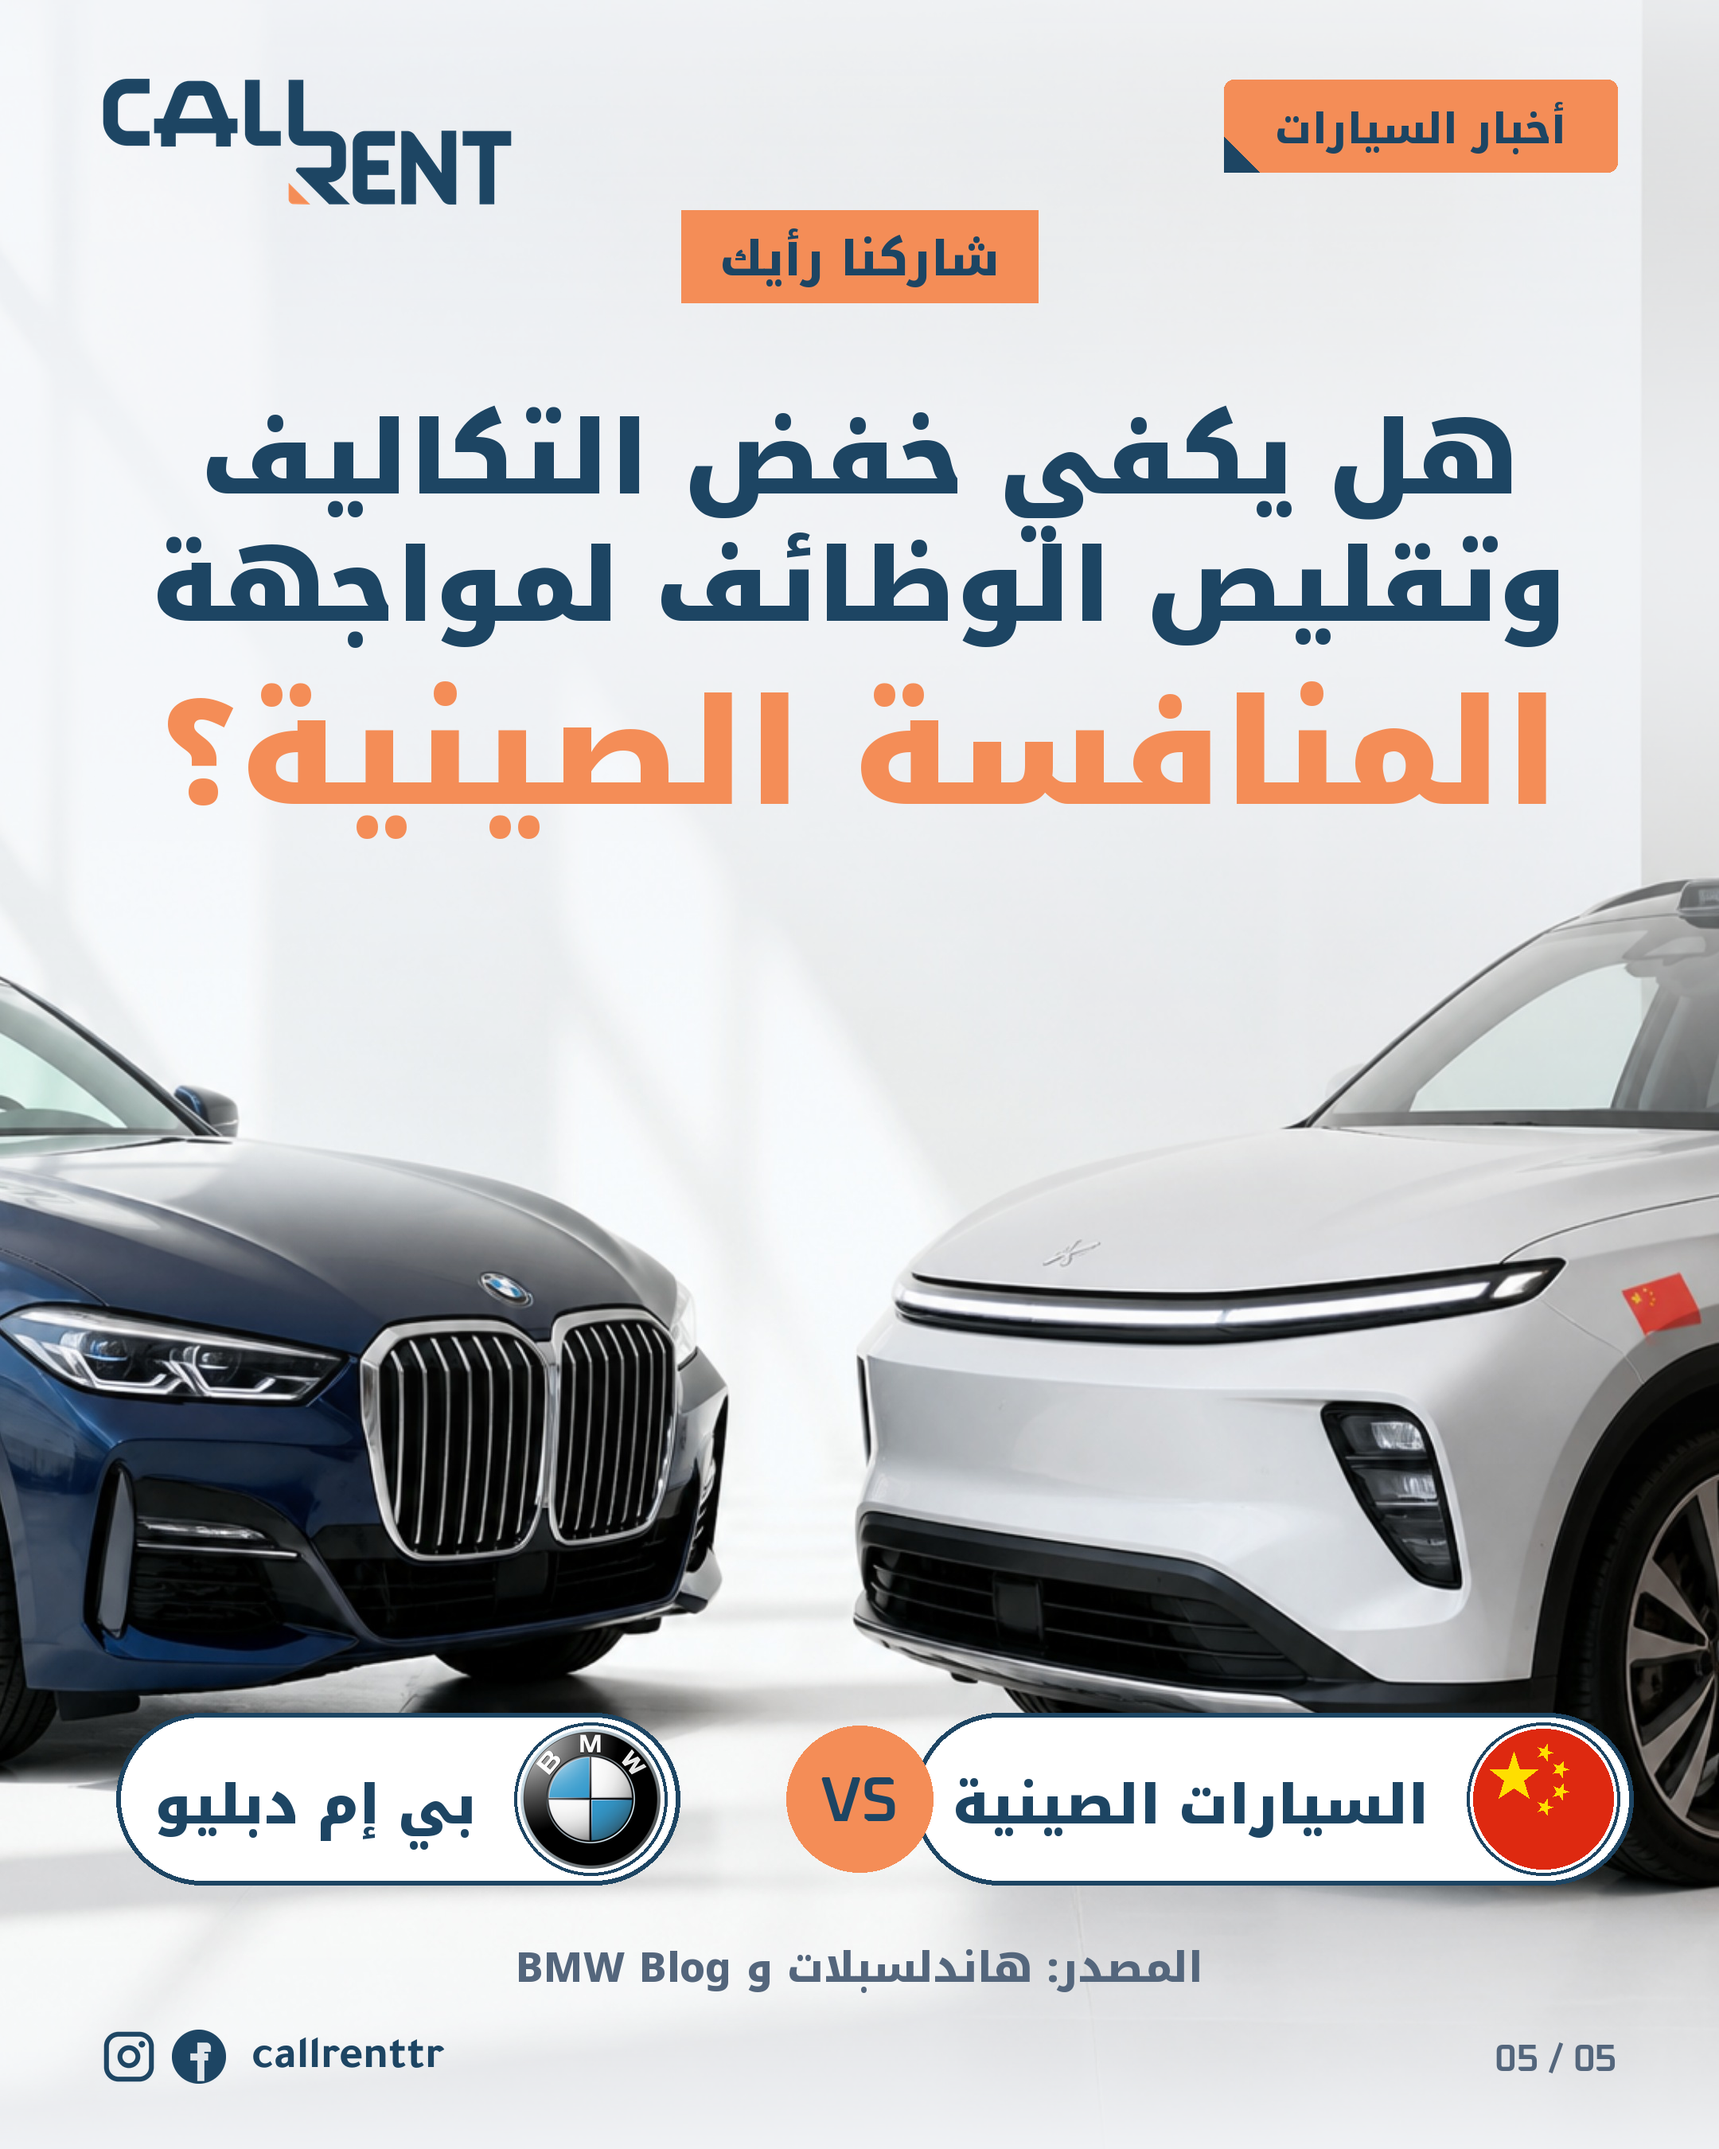
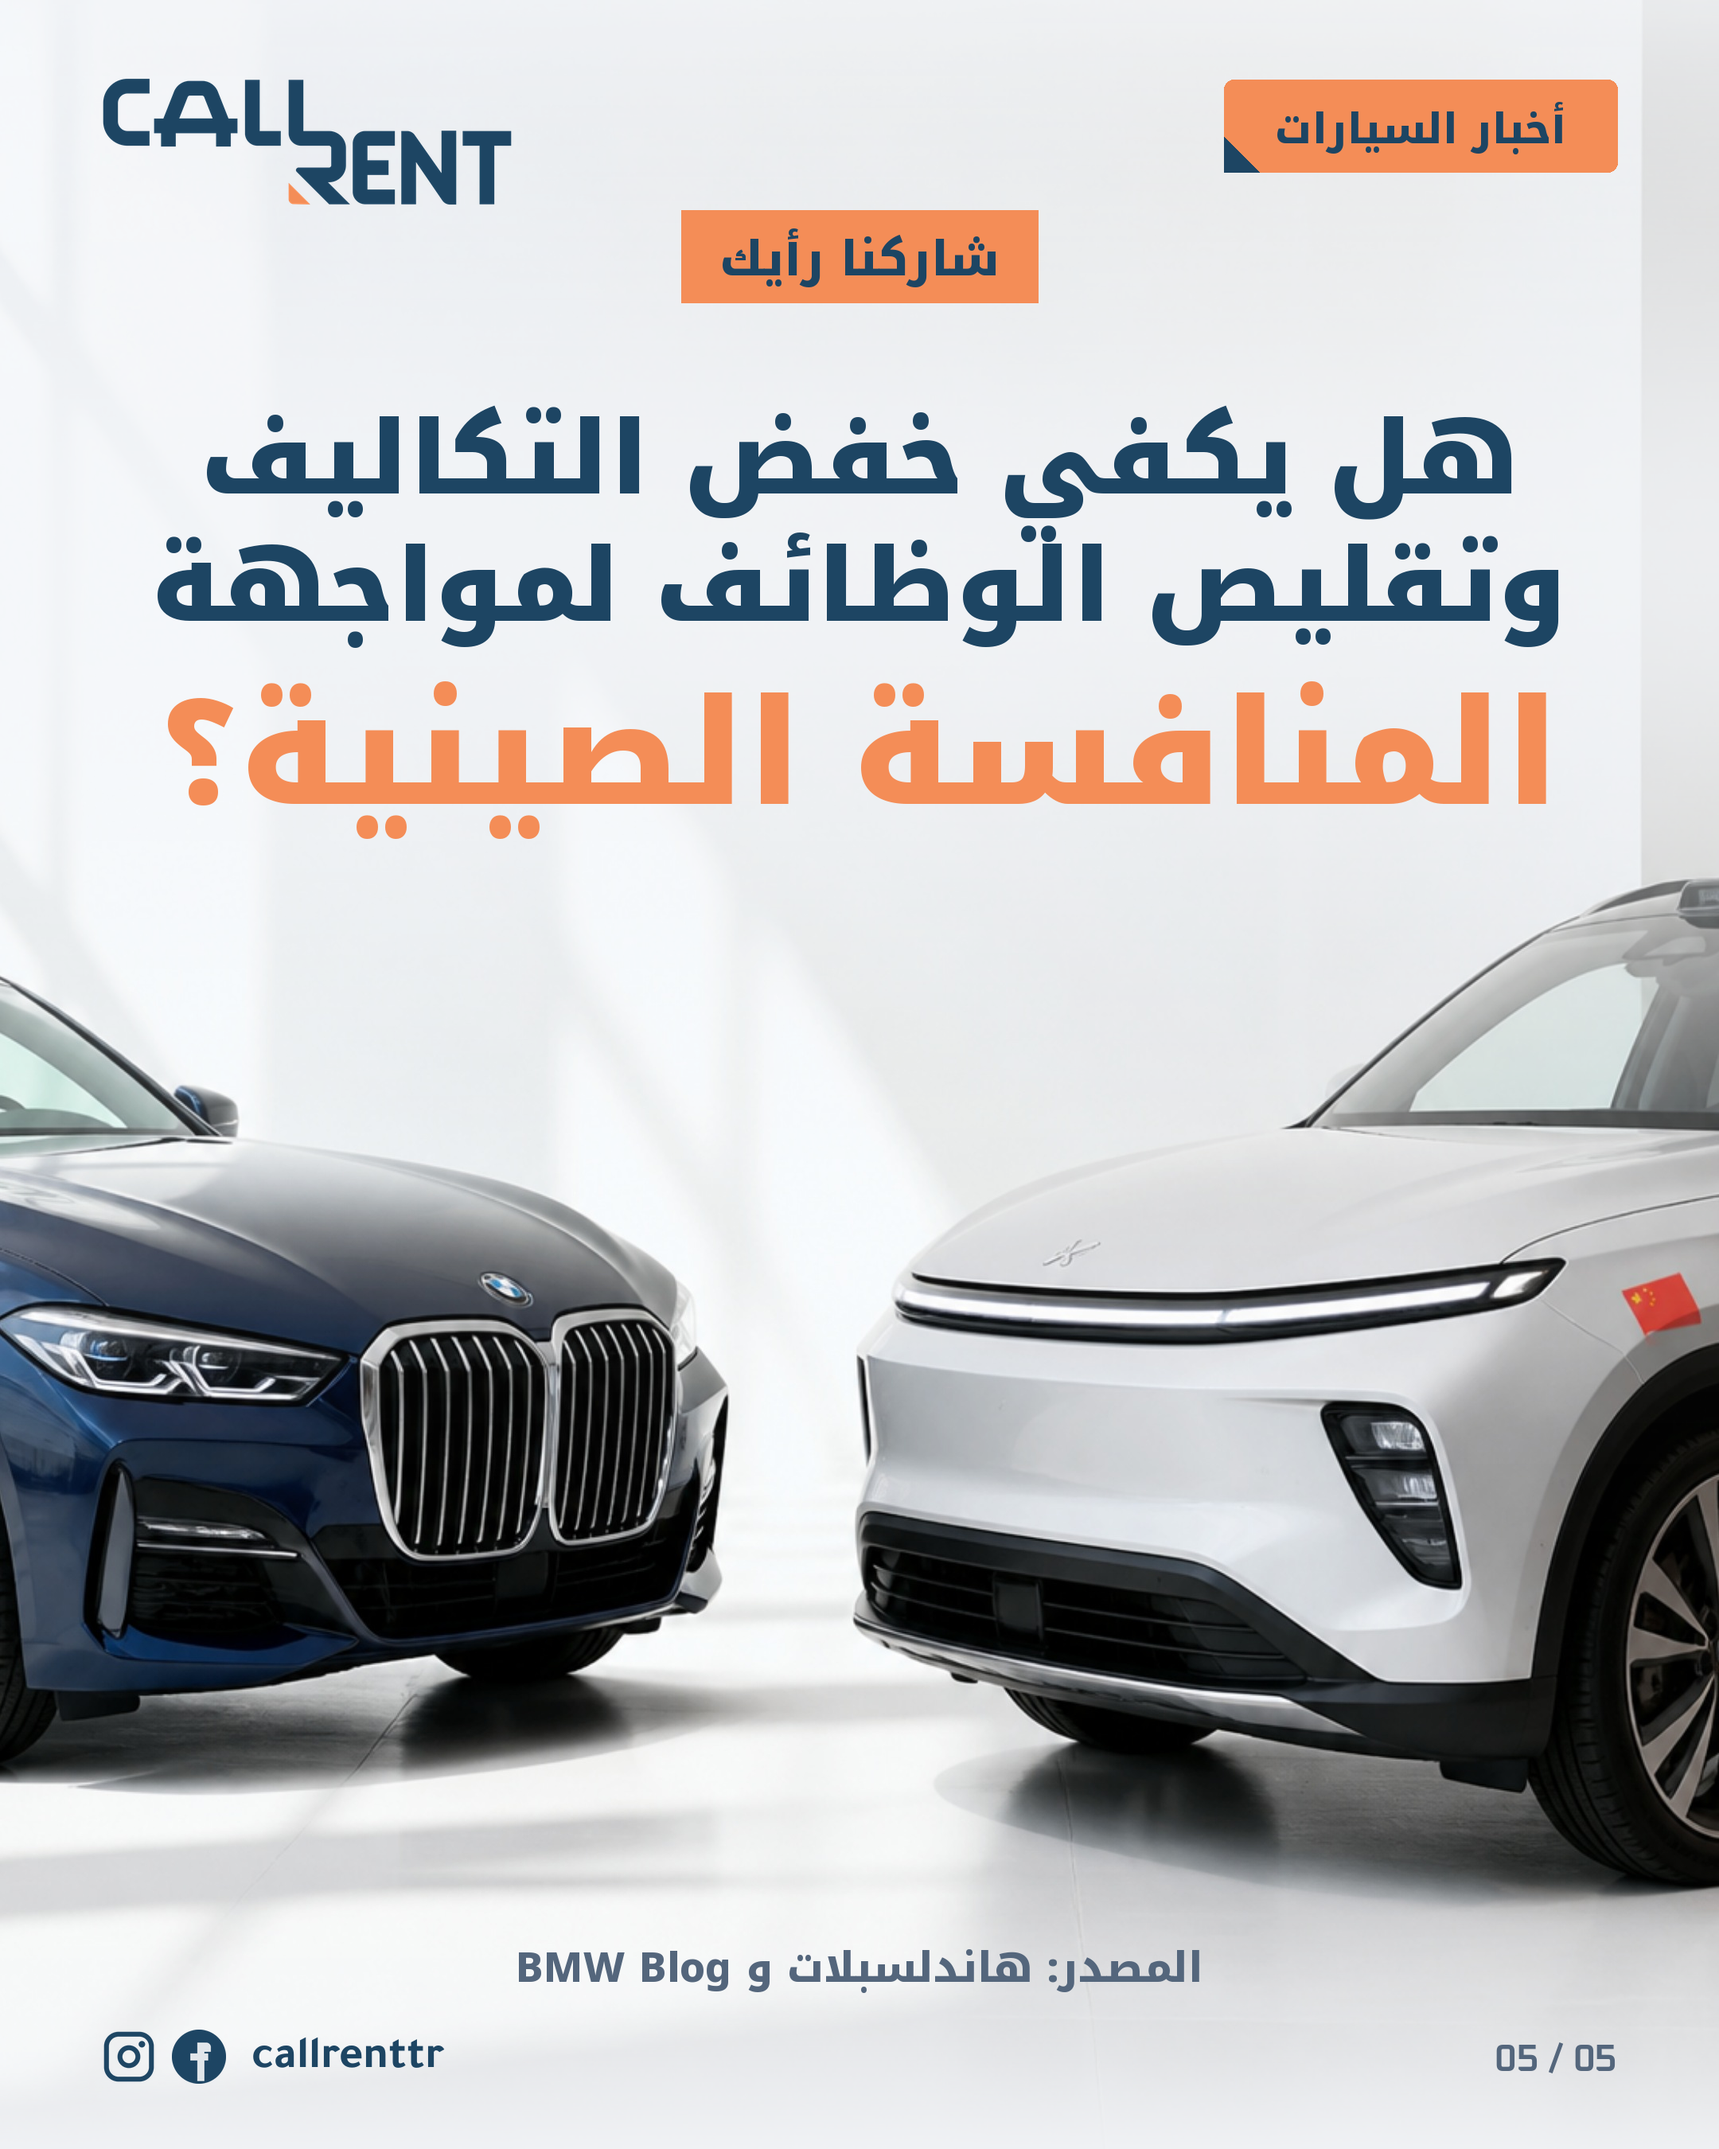
News: BMW carousel last slide without the versus marks
Claude-Session: https://claude.ai/code/session_01JWxxZZBXcuDznNNTjM86b7

Changed region(s): [[0.4343, 0.7778, 0.9616, 0.9022], [0.062, 0.7778, 0.4032, 0.9022]]

diff --git a/marketing/news/stories/bmw_voluntary_exit.py b/marketing/news/stories/bmw_voluntary_exit.py
@@ -1,4 +1,4 @@
-"""BMW voluntary severance programme, Oct 2026 (global news, light theme). Images: Canva AI; roundel: BMW AG; flag drawn."""
+"""BMW voluntary severance programme, Oct 2026 (global news, light theme). Images: Canva AI; roundel: BMW AG."""
 # O, Wh, LOGONAVY are provided by news_carousel when the story is loaded.
 
 NAME = "bmw-exit"
@@ -24,8 +24,7 @@ SLIDES = [
          body=[('مع إطلاق البرنامج، دخل عشرات آلاف الموظفين في وقت واحد للاطلاع على عروضهم، حتى', Wh),
                ('تعطّلت البوابة الداخلية مؤقتاً،', O), ('وأوقفت الشركة لفترة استقبال طلبات جديدة بسبب', Wh),
                ('الإقبال الكبير.', O)]),
-    dict(kind='ask', bg='bmw-exit-5.jpg', chip='شاركنا رأيك', top=230,
-         versus=dict(y=1130, left=('bmw-roundel.png', 'بي إم دبليو', 250), right=('cn', 'السيارات الصينية', 800)), lines=[
+    dict(kind='ask', bg='bmw-exit-5.jpg', chip='شاركنا رأيك', top=230, lines=[
         ('هل يكفي خفض التكاليف', LOGONAVY, 64),
         ('وتقليص الوظائف لمواجهة', LOGONAVY, 64),
         ('المنافسة الصينية؟', O, 92)]),
